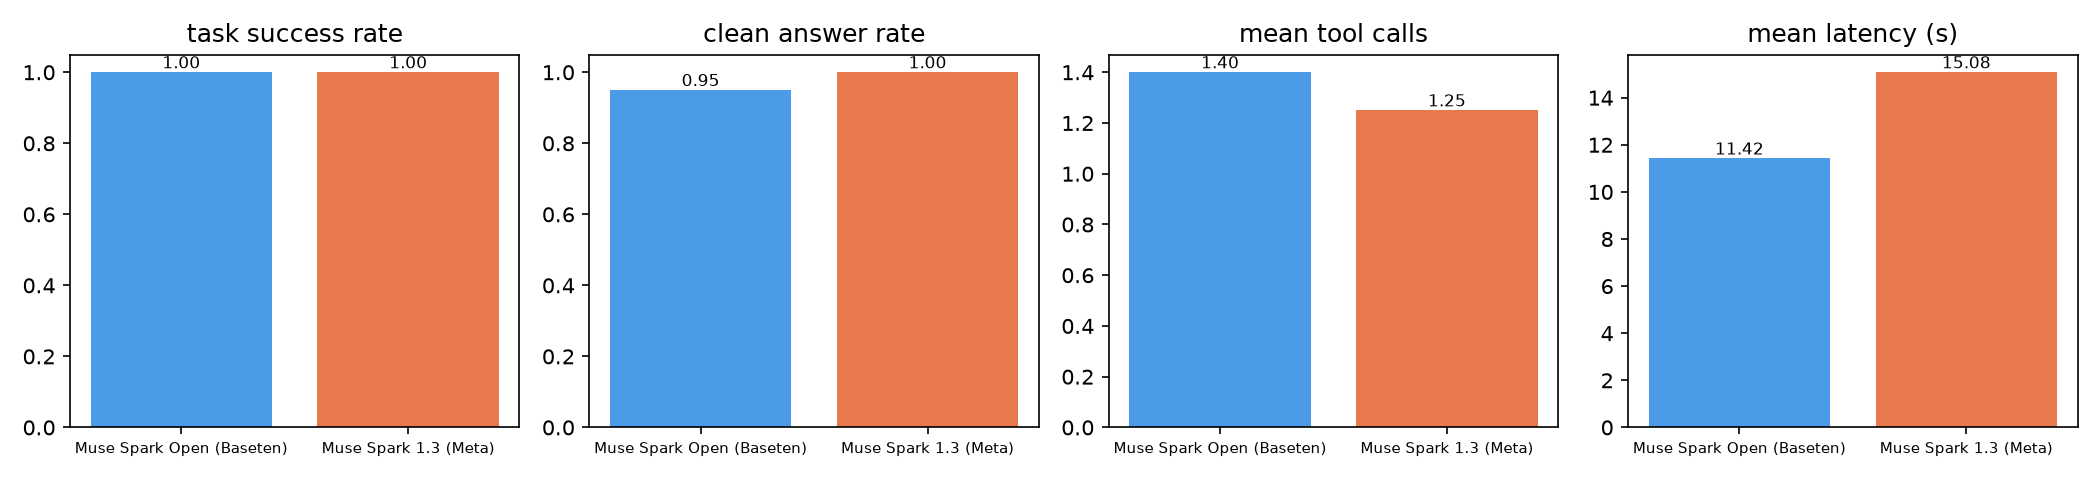
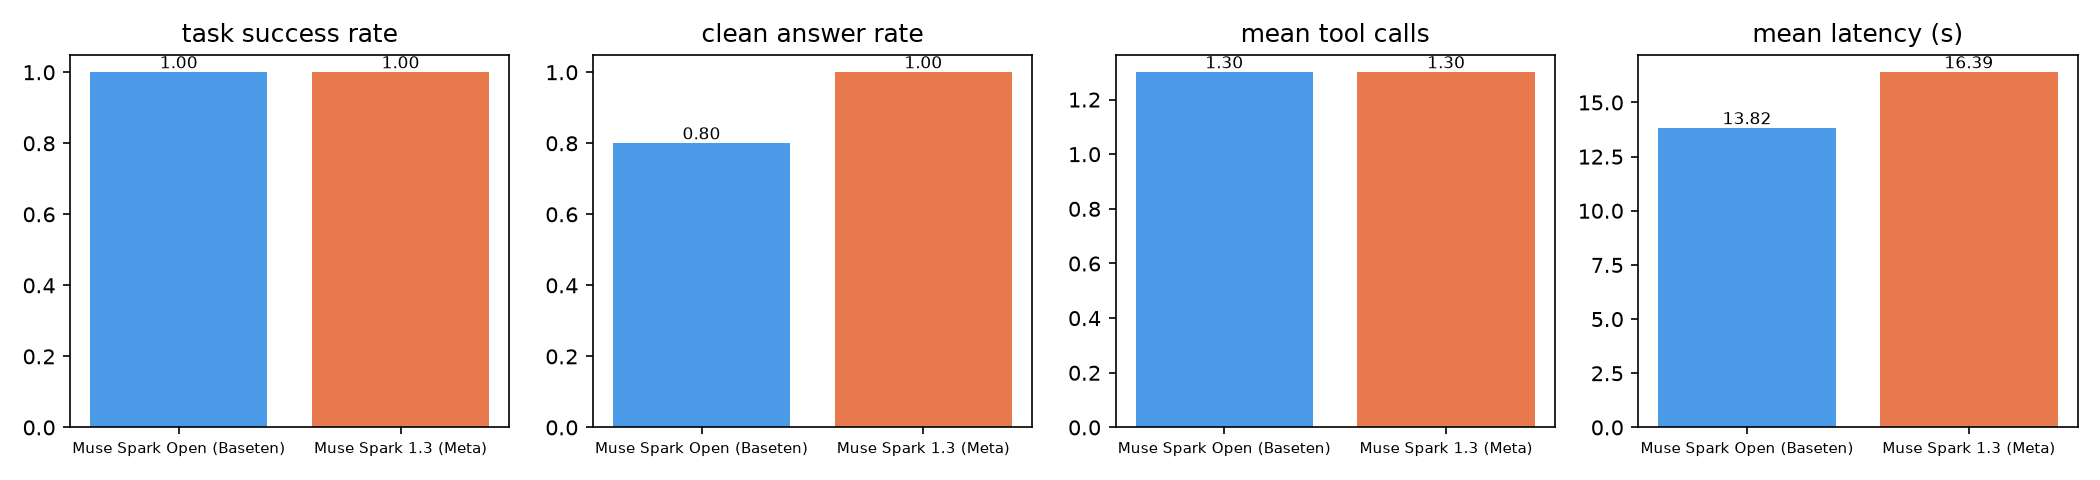
docs: README with final eval numbers

diff --git a/README.md b/README.md
@@ -22,7 +22,7 @@ tools    predict(composition)                      → μ, σ for YS / UTS / El 
                                                       if none feasible: which constraint binds, short by how much
          pareto(objectives, constraints?)          → non-dominated trade-off front; rank = promise ÷ uncertainty
                                                       ("which alloy to melt next")
-verify   numbers in prose ⊆ tool outputs ∪ user's numbers (derived μ±2σ recomputed in code);
+verify   numbers in prose ⊆ tool outputs ∪ user's numbers, matched at their written precision (μ±2σ recomputed in code);
          reject → one rewrite → otherwise strip the unsupported numbers. The table is filled by code, not the LLM.
 ```
 
@@ -52,10 +52,11 @@ Affine calibration gives bands 35–45% narrower than a single scalar multiplier
 | | Muse Spark Open (Baseten) | Muse Spark 1.3 (Meta Model API) |
 |---|---|---|
 | Task success | **20 / 20** | **20 / 20** |
-| Clean answer (verifier stripped nothing) | 19 / 20 | 20 / 20 |
-| Mean tool calls | 1.4 | 1.25 |
-| Mean latency | **11.4 s** | 15.1 s |
-| Tokens, all 20 queries | 202k | 204k |
+| Clean answer (verifier stripped nothing) | 16 / 20 | **20 / 20** |
+| Mean tool calls | 1.3 | 1.3 |
+| Mean latency | **13.8 s** | 16.4 s |
+| Tokens, all 20 queries | 234k | 207k |
+| Turns that hit a cap | 0 | 0 |
 
 ![eval comparison](eval/compare.png)
 
@@ -64,10 +65,17 @@ Affine calibration gives bands 35–45% narrower than a single scalar multiplier
 - The expected outcome of each query was labeled by running the tools directly. So this measures whether the
   agent uses the tools correctly and answers honestly, not whether the alloys exist.
 
-**A first run scored 13/20 and 15/20.** Reading the failures led to three verifier fixes, each with a test:
-- numbers from earlier user turns are now allowed;
-- "1693,225" is checked as a list, not one number;
-- the prompt now says to quote tool numbers instead of approximating them.
+**How we got here.** Each fix below came from reading eval failures, and each has a test:
+- **First run:** 13/20 and 15/20 strict. The verifier was too strict on follow-ups and comma lists, and the
+  prompt allowed approximations.
+- **Code review:** our own 1% tolerance let invented numbers slip through once a 15-candidate front was in
+  context. A number now has to match a tool value to the precision it is written with.
+- **Third run:** on two queries the Meta model returned an empty final answer. The agent now asks again, and
+  if the answer is still empty it falls back to a summary of the tool results.
+
+The open-weight model is faster. It also approximates more often (for example "~2,000 MPa"), so its answer is
+"clean" (the verifier stripped nothing) on 16/20 queries. In the other 4, the verifier replaced those numbers
+with `[?]` rather than let them through.
 
 **Held-out rediscovery (`eval/rediscovery.py`, no LLM): 0 / 31.** We hid the strongest 10% of steels and
 retrained. Every held-out target then lies above the model's training range, and tree ensembles do not
@@ -95,7 +103,7 @@ python app.py                              # http://127.0.0.1:7860
   `meta-models/muse-spark-open-1026` on Baseten; the alternative is `muse-spark-1.3` on `https://api.meta.ai/v1`.
 - **Spec-sheet intake:** uses the Meta Model API. Try `demo/spec_landing_gear.pdf` or `demo/spec_table.png`.
 - **Replay mode:** `REPLAY=runs.jsonl python app.py` re-renders saved turns without calling any LLM.
-- **Tests:** `pytest`. 40 offline tests; the LLM is stubbed.
+- **Tests:** `pytest`. 47 offline tests; the LLM is stubbed.
 - **Eval:** `python eval/run_eval.py --backend baseten|meta`, then `python eval/run_eval.py --plot`.
 
 ## Data
@@ -110,7 +118,7 @@ commit is `c4962d6` (2026-10-27 KST). No pre-existing code, models or data are i
 |---|---|
 | Oct 27 | Dataset license check and choice, project skeleton, Muse Spark tool-calling checks on both backends, design spec and plan |
 | Oct 28 | Predictor, tools, verifier, agent loop, multimodal intake, Gradio UI, eval harness, rediscovery benchmark |
-| Oct 29 | Full evaluation, verifier fixes driven by eval failures |
+| Oct 29–30 | Full evaluation, fresh-eyes code review, fixes driven by eval failures and review findings |
 
 Design notes: [docs/superpowers/specs](docs/superpowers/specs) and [docs/superpowers/plans](docs/superpowers/plans).
 
